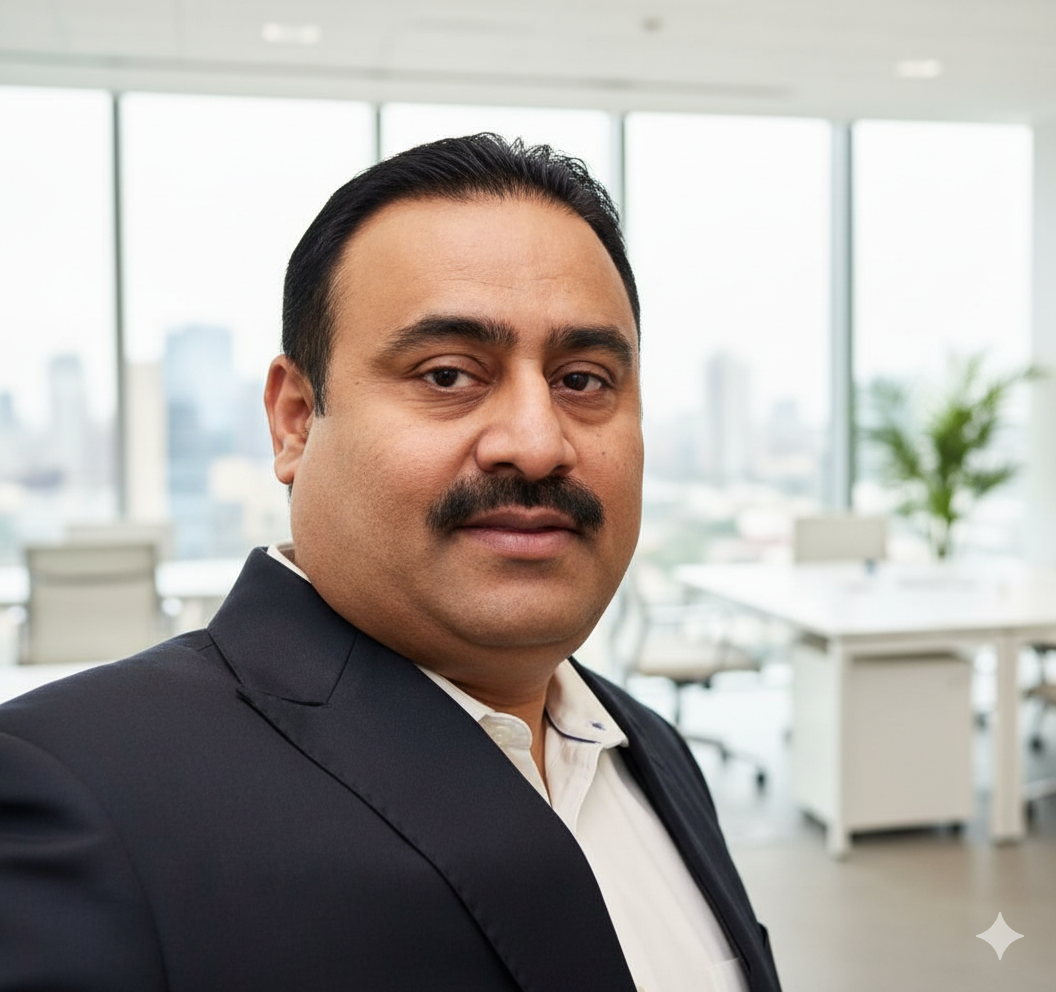
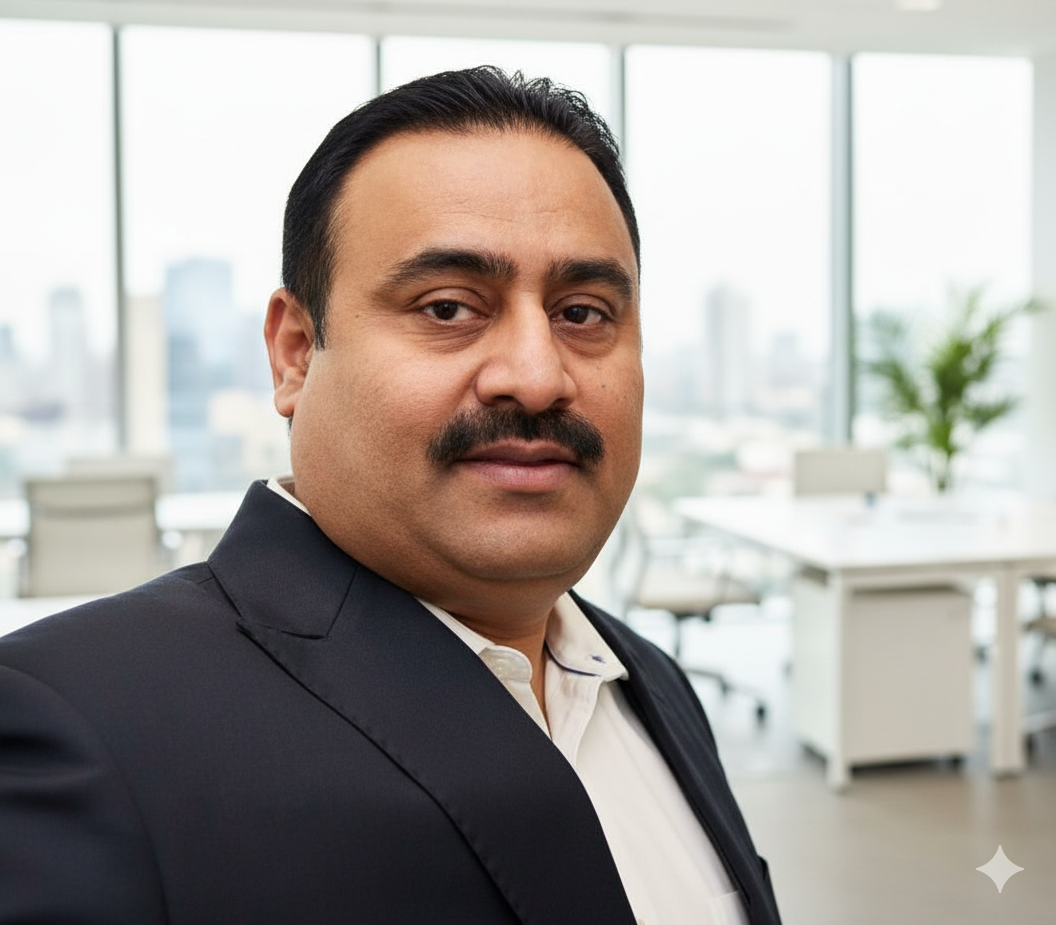
update changes

diff --git a/src/app/pages/company/OurTeam/page.jsx b/src/app/pages/company/OurTeam/page.jsx
@@ -7,71 +7,85 @@ import { motion } from "framer-motion";
 
 const teamMembers = [
   {
-    name: "Satish kumar",
-    role: "Founder & CEO",
-    image: "/p4.jpg",
-    quote: "Passion drives logistics, people bring it to life.",
+    name: "Mahesh kumar",
+    role: "Project Lead, Opreations",
+    image: "/images/c1.jpg",
+    quote: "We scale fulfillment with scalable code.",
   },
   {
     name: "Ishita basu",
-    role: "Head of Operations",
+    role: "Head, Human Resource",
     image: "/p5.jpg",
     quote: "Efficiency and empathy—our dual strengths.",
   },
   {
     name: "Sandeep Parmar",
-    role: "Customer Success Lead",
-    image: "/test.jpeg",
+    role: "Project Lead, Business",
+    image: "/images/c2.jpg",
     quote: "Every parcel is a promise—we make sure it’s kept.",
   },
-  {
-    name: "Mahesh kumar",
-    role: "Technology Director",
-    image: "/p4.jpg",
-    quote: "We scale fulfillment with scalable code.",
-  },
+
   {
     name: "Sanjeev kumar",
-    role: "Technology Director",
-    image: "/p4.jpg",
+    role: "Head, Security and Loss Prevention",
+    image: "/images/c3.jpg",
     quote: "We scale fulfillment with scalable code.",
   },
 ];
 const catalysts = [
   {
-    name: "Akash Singh",
-    role: "Founder & CEO",
-    image: "/p4.jpg",
+    name: "Deepu Chauhan",
+    role: "Operations",
+    image: "/images/c4.jpg",
     quote: "Passion drives logistics, people bring it to life.",
   },
   {
-    name: "Sourabh Singh",
-    role: "Head of Operations",
-    image: "/p5.jpg",
+    name: "Dinesh Kumar",
+    role: "Operations",
+    image: "/images/c12.jpg",
     quote: "Efficiency and empathy—our dual strengths.",
   },
   {
-    name: "Dinesh kumar",
-    role: "Customer Success Lead",
-    image: "/test.jpeg",
+    name: "Sachin Bamnoli",
+    role: "Operations",
+    image: "/images/c6.jpg",
     quote: "Every parcel is a promise—we make sure it’s kept.",
   },
+
   {
-    name: "Neeraj kumar",
-    role: "Technology Director",
-    image: "/p4.jpg",
+    name: "Sumit Kumar Pandey",
+    role: "Operations",
+    image: "/images/c7.jpg",
     quote: "We scale fulfillment with scalable code.",
   },
   {
-    name: "Mandeep Singh",
-    role: "Technology Director",
-    image: "/p4.jpg",
+    name: "Mandeep mimavat",
+    role: "Operations",
+    image: "/images/c8.jpg",
+    quote: "We scale fulfillment with scalable code.",
+  },
+  {
+    name: "Asheesh Kumar",
+    role: "Operations",
+    image: "/images/c9.jpg",
+    quote: "We scale fulfillment with scalable code.",
+  },
+  {
+    name: "Nibilata buragohain",
+    role: "Data Analyst",
+    image: "/images/c5.jpg",
+    quote: "We scale fulfillment with scalable code.",
+  },
+  {
+    name: "Sourabh Kumar",
+    role: "FTL Operations",
+    image: "/images/c13.jpg",
     quote: "We scale fulfillment with scalable code.",
   },
   {
     name: "Rakhi",
-    role: "Technology Director",
-    image: "/p4.jpg",
+    role: "Human Resources",
+    image: "/images/c10.jpg",
     quote: "We scale fulfillment with scalable code.",
   },
 ];
@@ -87,7 +101,7 @@ const leaders = [
     name: "Satish kumar",
     role: "Co-Founder & COO",
     desc: "Business Operations",
-    img: "/p6.png",
+    img: "/images/satish.png",
   },
 
   {
@@ -269,7 +283,7 @@ export default function Page() {
           </p>
         </div>
 
-        <div className="grid sm:grid-cols-2 md:grid-cols-2 lg:grid-cols-2 xl:grid-cols-5 gap-10 max-w-8xl mx-auto">
+        <div className="grid sm:grid-cols-2 md:grid-cols-2 lg:grid-cols-2 xl:grid-cols-4 gap-10 max-w-8xl mx-auto">
           {teamMembers.map((member, idx) => (
             <motion.div
               key={idx}
@@ -278,18 +292,18 @@ export default function Page() {
               transition={{ duration: 0.4, delay: idx * 0.1 }}
               className="bg-white rounded-2xl border-2 border-[#24577F] p-6 shadow-lg hover:shadow-xl text-center transition-all"
             >
-              <div className="w-28 h-28 mx-auto mb-4 overflow-hidden rounded-full">
+              <div className="w-40 h-40 mx-auto mb-4 overflow-hidden rounded-lg">
                 <img
                   src={member.image}
                   alt={member.name}
-                  className="w-full h-full object-cover"
+                  className="w-full h-full object-cover object-top"
                 />
               </div>
-              <h3 className="text-xl font-semibold text-[#24577F]">
+              <h3 className="text-xl font-semibold capitalize text-[#24577F]">
                 {member.name}
               </h3>
               <p className="text-sm text-gray-500 mb-2">{member.role}</p>
-              <p className="italic text-gray-600 text-sm">“{member.quote}”</p>
+              {/* <p className="italic text-gray-600 text-sm">“{member.quote}”</p> */}
             </motion.div>
           ))}
         </div>
@@ -323,18 +337,18 @@ export default function Page() {
               transition={{ duration: 0.4, delay: idx * 0.1 }}
               className="bg-white border-2 border-[#24577F] rounded-2xl p-6 shadow-lg hover:shadow-xl text-center transition-all"
             >
-              <div className="w-28 h-28 mx-auto mb-4 overflow-hidden rounded-full">
+              <div className="w-40 h-40 mx-auto mb-4 overflow-hidden rounded-lg">
                 <img
                   src={member.image}
                   alt={member.name}
-                  className="w-full h-full object-cover"
+                  className="w-full h-full object-cover object-top"
                 />
               </div>
-              <h3 className="text-xl font-semibold text-[#24577F]">
+              <h3 className="text-xl font-semibold capitalize text-[#24577F]">
                 {member.name}
               </h3>
               <p className="text-sm text-gray-500 mb-2">{member.role}</p>
-              <p className="italic text-gray-600 text-sm">“{member.quote}”</p>
+              {/* <p className="italic text-gray-600 text-sm">“{member.quote}”</p> */}
             </motion.div>
           ))}
         </div>

diff --git a/src/app/pages/company/OurPartners/page.jsx b/src/app/pages/company/OurPartners/page.jsx
@@ -76,14 +76,14 @@ const leaders = [
 // Partner categories and their respective logos
 const partnerCategories = [
   {
-    label: "Warehousing Partners",
+    label: "Warehousing",
     heading: "Smart Space, Seamless Service.",
     logos: ["/Clientlogo/22.png", "/Clientlogo/23.png", "/Clientlogo/24.png"],
     description:
       "From storage to fulfillment, our warehousing partners help us stay agile and closer to the customer — wherever demand goes.",
   },
   {
-    label: "Staffing  Partners",
+    label: "Staffing",
     heading: "People Who Power Progress.",
 
     logos: ["/Clientlogo/1.png", "/Clientlogo/2.png", "/Clientlogo/3.png"],
@@ -91,7 +91,7 @@ const partnerCategories = [
       "From ground staff to skilled operators, our staffing partners ensure we have the right people in the right place — every single day.",
   },
   {
-    label: "Logistics Partners",
+    label: "Logistics",
     heading: "Seamless Links in Every Lane.",
 
     logos: ["/Clientlogo/22.png", "/Clientlogo/23.png", "/Clientlogo/24.png"],
@@ -99,7 +99,15 @@ const partnerCategories = [
       "Our logistics partners help us connect the dots — from first mile to last. With their support, we ensure smoother routes, faster turnarounds, and a supply chain that never stops moving.",
   },
   {
-    label: "Delivery Partners",
+    label: "Technology",
+    heading: "Tech That Moves With Us.",
+
+    logos: ["/Clientlogo/5.png", "/Clientlogo/6.png", "/Clientlogo/7.png"],
+    description:
+      "From visibility tools to integration engines, our tech allies help us streamline operations, scale faster, and stay ahead of the curve.",
+  },
+  {
+    label: "Professtional",
     heading: "Miles Made Meaningful.",
 
     logos: ["/Clientlogo/13.png", "/Clientlogo/14.png", "/Clientlogo/12.png"],
@@ -107,13 +115,14 @@ const partnerCategories = [
       "Our delivery network is stronger because of our partner fleets. Together, we reach more pin codes, reduce delays, and deliver brand trust at the doorstep.",
   },
   {
-    label: "Technology Partners",
-    heading: "Tech That Moves With Us.",
+    label: "CSR",
+    heading: "Miles Made Meaningful.",
 
-    logos: ["/Clientlogo/5.png", "/Clientlogo/6.png", "/Clientlogo/7.png"],
+    logos: ["/Clientlogo/13.png", "/Clientlogo/14.png", "/Clientlogo/12.png"],
     description:
-      "From visibility tools to integration engines, our tech allies help us streamline operations, scale faster, and stay ahead of the curve.",
+      "Our delivery network is stronger because of our partner fleets. Together, we reach more pin codes, reduce delays, and deliver brand trust at the doorstep.",
   },
+  
 ];
 
 export default function OurPartnersPage() {
@@ -235,9 +244,9 @@ export default function OurPartnersPage() {
               initial={{ opacity: 0, y: 10 }}
               whileInView={{ opacity: 1, y: 0 }}
               transition={{ duration: 0.3 }}
-              className={`px-5 py-3 rounded-2xl border-4 font-semibold text-sm sm:text-base shadow-sm transition ${
+              className={`px-5 py-3 rounded-2xl border-4 uppercase font-semibold text-sm sm:text-base shadow-sm transition ${
                 activeCategory.label === category.label
-                  ? "bg-[#FF7F06] text-black border-[#FF7F06]"
+                  ? "bg-[#FF7F06] text-white border-[#FF7F06]"
                   : "bg-white text-gray-600 border-gray-300 hover:text-[#FF7F06] hover:border-[#24577F]"
               }`}
             >
@@ -291,7 +300,7 @@ export default function OurPartnersPage() {
               {
                 title: "15K+ MSMEs",
                 description:
-                  "Enabled to sell nationwide via our fulfillment network.",
+                  "Enabled to sell Nationwide via our fulfillment network.",
               },
               {
                 title: "90% Faster",

diff --git a/src/app/pages/services/smart-warehousing-solution/page.jsx b/src/app/pages/services/smart-warehousing-solution/page.jsx
@@ -23,7 +23,7 @@ const subServices = [
     subtitle: "Engineered for Fast. Built for Scale. — Coming Soon",
     description:
       "At Jambulogix, we're building the next generation of tech-enabled Fulfilment Centres — designed to power high-speed order processing, precision pick-pack-ship, and seamless inventory flow across channels. Our upcoming facilities will leverage automation, data intelligence, and scalable design to reduce turnaround times, eliminate errors, and deliver unmatched efficiency — from warehouse to doorstep. Built for tomorrow. Ready for scale. Engineered to deliver.",
-    image: "/services/4.jpg",
+    image: "/services/18.png",
   },
   {
     title: "Dark Store",
@@ -248,15 +248,12 @@ export default function Page() {
               </span>
               that delivers.
             </p>
-            <p className="text-black font-bold text-md sm:text-lg text-end leading-relaxed">
-              box with jlx logo change
-            </p>
           </div>
 
           {/* Image Section */}
           <div>
             <Image
-              src="/38.jpg"
+              src="/images/a5.png"
               alt="Warehouse"
               width={600}
               height={400}

diff --git a/src/app/pages/services/smart-distribution-solution/page.jsx b/src/app/pages/services/smart-distribution-solution/page.jsx
@@ -7,7 +7,7 @@ import Image from "next/image";
 import TestimonialCarousel from "@/components/sections/TestimonialSection";
 import ContactSection from "@/components/sections/ContactSection";
 import InnerNumbers from "@/components/sections/InnerNumbers";
-import { Truck, BadgeCheck, Users, Leaf, SatelliteDish } from "lucide-react";
+import { Truck, BadgeCheck, Users, Leaf, SatelliteDish, IndianRupee } from "lucide-react";
 import { ThumbsUp, DollarSign, BarChart } from "lucide-react";
 
 const subServices = [
@@ -107,7 +107,7 @@ const secondRow = [
 
   const keysecondRow = [
     {
-      icon: <DollarSign size={50} className="text-[#FF7F06]" />,
+      icon: <IndianRupee size={50} className="text-[#FF7F06]" />,
       text: "Better Cost Control",
       desc: "Shared resources and optimized routing reduce logistics costs.",
     },

diff --git a/src/app/pages/services/transportation-service/page.jsx b/src/app/pages/services/transportation-service/page.jsx
@@ -532,7 +532,7 @@ export default function Page() {
           >
             {[
               { img: "/images/sub2.jpg", label: "Startups & Growing Brands" },
-              { img: "/images/sub4.jpg", label: "SMEs Across Sectors" },
+              { img: "/53.jpg", label: "SMEs Across Sectors" },
               {
                 img: "/images/sub11.jpg",
                 label: "Regional & Local Distributors",
@@ -566,7 +566,7 @@ export default function Page() {
             transition={{ staggerChildren: 0.2 }}
           >
             {[
-              { img: "/images/sub6.jpg", label: "Brands & D2C Companies" },
+              { img: "/images/a2.png", label: "Brands & D2C Companies" },
               {
                 img: "/images/sub10.jpg",
                 label: "Sustainable & Conscious Businesses",

diff --git a/src/app/pages/about/page.jsx b/src/app/pages/about/page.jsx
@@ -46,7 +46,7 @@ const leaders = [
     name: "Satish kumar",
     role: "Co-Founder & COO",
     desc: "Business Operations",
-    img: "/p6.png",
+    img: "/images/satish.png",
   },
 
   {
